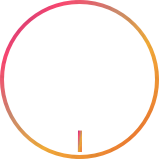
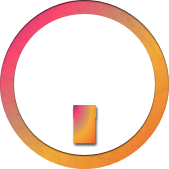
Radial Sliders Positioned

Changed region(s): [[0.0, 0.0, 1.0, 1.0]]

diff --git a/RGBA Synth/Source/PluginEditor.cpp b/RGBA Synth/Source/PluginEditor.cpp
@@ -18,7 +18,10 @@ RGBASynthAudioProcessorEditor::RGBASynthAudioProcessorEditor(RGBASynthAudioProce
 	swtLevelSlider(juce::Colours::red),
 	sawLevelSlider(juce::Colours::green),
 	sqrLevelSlider(juce::Colours::blue),
-	detuneAmountSlider(juce::Colours::purple)
+	detuneAmountSlider(juce::Colours::lightpink),
+	swtPhaseSlider(juce::Colours::red),
+	sawPhaseSlider(juce::Colours::green),
+	sqrPhaseSlider(juce::Colours::blue)
 
 {
 	setSize(958, 564);
@@ -79,14 +82,14 @@ RGBASynthAudioProcessorEditor::RGBASynthAudioProcessorEditor(RGBASynthAudioProce
 	};
 	swtPhaseAttatchment.reset(new SliderAttachment(editorApvts, "swtPhase", swtPhaseSlider));
 
-	//addAndMakeVisible(sawPhaseSlider);
+	addAndMakeVisible(sawPhaseSlider);
 	sawPhaseSlider.onValueChange = [this] {
 		WaveGen::setSawPhase(sawPhaseSlider.getValue());
 		waveDisplay.repaint();
 	};
 	sawPhaseAttatchment.reset(new SliderAttachment(editorApvts, "sawPhase", sawPhaseSlider));
 
-	//addAndMakeVisible(sqrPhaseSlider);
+	addAndMakeVisible(sqrPhaseSlider);
 	sqrPhaseSlider.onValueChange = [this] {
 		WaveGen::setSqrPhase(sqrPhaseSlider.getValue());
 		waveDisplay.repaint();
@@ -96,19 +99,11 @@ RGBASynthAudioProcessorEditor::RGBASynthAudioProcessorEditor(RGBASynthAudioProce
 
 }
 
-RGBASynthAudioProcessorEditor::~RGBASynthAudioProcessorEditor()
-{
-
-}
+RGBASynthAudioProcessorEditor::~RGBASynthAudioProcessorEditor(){}
 
 //==============================================================================
 void RGBASynthAudioProcessorEditor::paint(juce::Graphics& g)
 {
-
-	int lightThreshold = 210;
-
-
-
 	const juce::Image colorWave = juce::ImageCache::getFromMemory(BinaryData::RGBA_Synth_png, BinaryData::RGBA_Synth_pngSize);
 	const juce::Rectangle<float> fullScreen = juce::Rectangle<float>(0, 0, getWidth(), getHeight());
 	g.drawImage(colorWave, fullScreen, juce::RectanglePlacement::fillDestination);
@@ -155,24 +150,12 @@ void RGBASynthAudioProcessorEditor::resized()
 	juce::Rectangle<int> radialSliderRect(indentLeft, titleHeight + sliderHeight, sliderWidth, sliderWidth);
 	swtPhaseSlider.setBounds(radialSliderRect);
 
-	//juce::Rectangle<int> phaseRect(keyboardWidth, rgbSliderHieght);
+	radialSliderRect.setPosition(indentLeft + sliderWidth * 2, titleHeight + sliderHeight);
+	sawPhaseSlider.setBounds(radialSliderRect);
 
-	//phaseRect.setPosition(leftSideOfWaveDisplay - keyboardWidth, bottomOfWaveDisplay);
-	//swtPhaseSlider.setBounds(phaseRect);
+	radialSliderRect.setPosition(indentLeft + sliderWidth * 4, titleHeight + sliderHeight);
+	sqrPhaseSlider.setBounds(radialSliderRect);
 
-	//phaseRect.setPosition(leftSideOfWaveDisplay - keyboardWidth, bottomOfWaveDisplay + rgbSliderHieght);
-	//sawPhaseSlider.setBounds(phaseRect);
-
-	//phaseRect.setPosition(leftSideOfWaveDisplay - keyboardWidth, bottomOfWaveDisplay + 2 * rgbSliderHieght);
-	//sqrPhaseSlider.setBounds(phaseRect);
-
-	//phaseRect.setPosition(leftSideOfWaveDisplay - keyboardWidth, bottomOfWaveDisplay + 3 * rgbSliderHieght);
-	//detuneAmountSlider.setBounds(phaseRect);
-
-
-	//Keyboard Component
-	//keyboardComponent.setBounds(leftSideOfWaveDisplay - keyboardWidth, titleHeight, keyboardWidth, waveDisplayHeight);
-
-
+	//Wave Display
 	waveDisplay.setBounds(leftSideOfWaveDisplay, titleHeight, waveDisplayWidth, waveDisplayHeight);
 }

diff --git a/RGBA Synth/Source/RGBA GUI/Sliders/RGBAVerticalSlider.cpp b/RGBA Synth/Source/RGBA GUI/Sliders/RGBAVerticalSlider.cpp
@@ -44,15 +44,10 @@ public:
 			const float minimumSliderPos = (0 + getSliderThumbRadius(slider));
 			const float totalsliderdistance = (float)height;
 			const float calculatedBackgroundColorValue = maxrange - ((maxrange) / (totalsliderdistance)) * (sliderPos - minimumSliderPos);
-			juce::Colour calculatedbackgroundcolor;
-
-			coloursEqual(this->thumbColor, juce::Colours::red)
-				? calculatedbackgroundcolor = juce::Colour(calculatedBackgroundColorValue, 0, 0)
-				: coloursEqual(this->thumbColor, juce::Colours::green)
-				? calculatedbackgroundcolor = juce::Colour(0, calculatedBackgroundColorValue, 0)
-				: coloursEqual(this->thumbColor, juce::Colours::blue)
-				? calculatedbackgroundcolor = juce::Colour(0, 0, calculatedBackgroundColorValue)
-				: calculatedbackgroundcolor = juce::Colour(calculatedBackgroundColorValue, calculatedBackgroundColorValue, calculatedBackgroundColorValue);
+			const int calculatedSliderColorRed = (thumbColor.getRed() / maxrange) * calculatedBackgroundColorValue;
+			const int calculatedSliderColorGreen = (thumbColor.getGreen() / maxrange) * calculatedBackgroundColorValue;
+			const int calculatedSliderColorBlue = (thumbColor.getBlue() / maxrange) * calculatedBackgroundColorValue;
+			juce::Colour calculatedbackgroundcolor = juce::Colour(calculatedSliderColorRed, calculatedSliderColorGreen, calculatedSliderColorBlue);
 
 			juce::ColourGradient calcColourGradient(juce::Colours::black, 0, 0, calculatedbackgroundcolor, 0, sliderPos + 50, false);
 			g.setGradientFill(calcColourGradient);

diff --git a/RGBA Synth/Source/RGBA GUI/Sliders/RGBARotarySlider.cpp b/RGBA Synth/Source/RGBA GUI/Sliders/RGBARotarySlider.cpp
@@ -18,12 +18,13 @@ public:
 
 	void drawRotarySlider(juce::Graphics& g, int x, int y, int width, int height, float sliderPosProportional, float rotaryStartAngle, float rotaryEndAngle, juce::Slider& slider) override
 	{
-
+		DBG("Rotary prop : " << sliderPosProportional << " Start : " << rotaryStartAngle << " End : " << rotaryEndAngle);
 		const juce::Rectangle<float> sliderBounds(x, y, width, height);
 		const juce::ColourGradient sliderColorGradient(this->rotarySliderColour, x, y, juce::Colours::grey, width, height, false);
 		const juce::Image radialSlider(juce::ImageCache::getFromMemory(BinaryData::RadialSliderAsset_png, BinaryData::RadialSliderAsset_pngSize));
-
+		g.setGradientFill(sliderColorGradient);
 		g.fillEllipse(sliderBounds);
+		g.addTransform(juce::AffineTransform::rotation((rotaryEndAngle - rotaryStartAngle) * sliderPosProportional, static_cast<float>(width) / 2, static_cast<float>(height) / 2));
 		g.drawImage(radialSlider, sliderBounds, juce::RectanglePlacement::stretchToFit);
 	};
 
